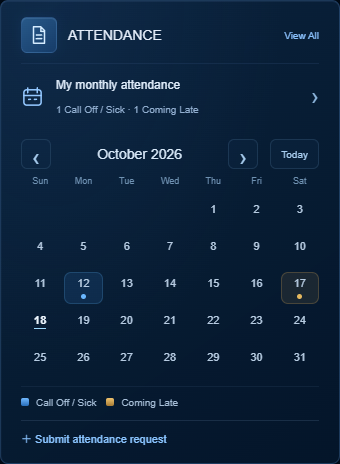
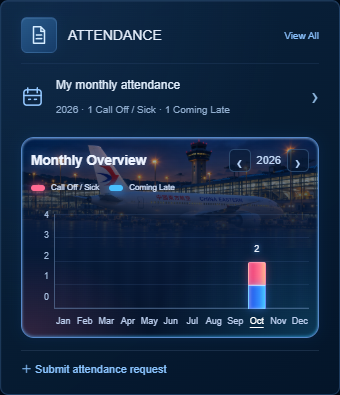
Replace attendance calendars with glowing monthly overview charts

diff --git a/public/public/profile.html b/public/public/profile.html
@@ -1,7 +1,7 @@
 <!doctype html>
 <html lang="en"><head><meta charset="utf-8"><meta name="viewport" content="width=device-width,initial-scale=1"><title>MUFC · Profile</title>
-<link rel="stylesheet" href="/profile.css?v=20261018-privacy-compact"><link rel="stylesheet" href="/portal-cards.css?v=20261018-privacy-compact">
-<script defer src="https://www.gstatic.com/firebasejs/10.12.2/firebase-app-compat.js"></script><script defer src="https://www.gstatic.com/firebasejs/10.12.2/firebase-auth-compat.js"></script><script defer src="/__/firebase/init.js"></script><script defer src="/employee-profile-api.js"></script><script defer src="/flight-account.js?v=20261017-profile-access"></script><script defer src="/employee-phone.js"></script><script defer src="/profile.js?v=20261017-profile-access"></script><link rel="stylesheet" href="/read-sign.css?v=20261018-privacy-compact"><script defer src="/people-api.js?v=20261018"></script><script defer src="/attendance-calendar.js?v=20261018-calendar"></script><script defer src="/profile-modules.js?v=20261018"></script></head>
+<link rel="stylesheet" href="/profile.css?v=20261018-monthly-overview"><link rel="stylesheet" href="/portal-cards.css?v=20261018-monthly-overview">
+<script defer src="https://www.gstatic.com/firebasejs/10.12.2/firebase-app-compat.js"></script><script defer src="https://www.gstatic.com/firebasejs/10.12.2/firebase-auth-compat.js"></script><script defer src="/__/firebase/init.js"></script><script defer src="/employee-profile-api.js"></script><script defer src="/flight-account.js?v=20261017-profile-access"></script><script defer src="/employee-phone.js"></script><script defer src="/profile.js?v=20261017-profile-access"></script><link rel="stylesheet" href="/read-sign.css?v=20261018-monthly-overview"><script defer src="/people-api.js?v=20261018"></script><script defer src="/attendance-overview.js?v=20261018-overview"></script><script defer src="/profile-modules.js?v=20261018-overview"></script></head>
 <body class="profile-page">
 <svg class="profile-symbols" aria-hidden="true" xmlns="http://www.w3.org/2000/svg"><defs>
 <symbol id="icon-home" viewBox="0 0 24 24"><path d="m3 10 9-7 9 7M5 9v12h5v-7h4v7h5V9"/></symbol>
@@ -28,7 +28,7 @@
 <div class="profile-modules profile-dashboard"><div class="profile-personal-column"><section class="profile-panel personal-panel" aria-labelledby="personal-title"><div class="profile-panel-title"><span class="panel-icon"><svg><use href="#icon-person"/></svg></span><div><h2 id="personal-title">Personal Information</h2></div><button id="edit-personal" class="profile-text-button" type="button"><svg><use href="#icon-edit"/></svg>Edit</button></div>
 <dl class="profile-information"><div><dt><svg aria-hidden="true"><use href="#icon-person"/></svg>Full name </dt><dd id="view-full-name"></dd></div><div><dt><svg aria-hidden="true"><use href="#icon-id"/></svg>Employee ID <span>EID</span></dt><dd id="view-employee-id"></dd></div><div><dt><svg aria-hidden="true"><use href="#icon-person"/></svg>Nickname </dt><dd id="view-nickname"></dd></div><div><dt><svg aria-hidden="true"><use href="#icon-phone"/></svg>Phone </dt><dd id="view-phone"></dd></div><div class="information-email"><dt><svg aria-hidden="true"><use href="#icon-mail"/></svg>Email </dt><dd id="view-email"></dd></div></dl>
 
-</section><section class="profile-panel personal-panel request-panel"><div class="profile-panel-title"><span class="panel-icon"><svg><use href="#icon-file"/></svg></span><h2>Request</h2></div><a class="uniform-entry" href="/uniform.html"><span><strong>Uniform</strong><small>Uniform replacement request</small></span><svg class="portal-link-chevron" viewBox="0 0 24 24" aria-hidden="true"><path d="m9 5 7 7-7 7"/></svg></a></section></div><div class="profile-side-panels"><section class="profile-panel personal-panel activity-card"><div class="profile-panel-title"><span class="panel-icon"><svg><use href="#icon-file"/></svg></span><h2>Read &amp; Sign</h2><a class="module-view-all" href="/read-sign.html">View All</a></div><a class="activity-row" href="/read-sign.html"><span class="activity-icon"><svg><use href="#icon-file"/></svg></span><span><strong>Policies, SOPs, acknowledgments</strong><small id="profile-pending-sign">Loading your records…</small></span><span class="activity-chevron">›</span></a><a class="activity-row" href="/read-sign.html?view=history"><span class="activity-icon"><svg><use href="#icon-file"/></svg></span><span><strong>My signing history</strong><small id="profile-signed-count">View completed acknowledgments</small></span><span class="activity-chevron">›</span></a><a class="activity-row" href="/uniform.html"><span class="activity-icon">◷</span><span><strong>My Requests</strong><small>Submit and track requests</small></span><span class="activity-chevron">›</span></a></section><section class="profile-panel personal-panel info-card"><div class="profile-panel-title"><span class="panel-icon"><svg viewBox="0 0 24 24"><circle cx="12" cy="12" r="9"/><path d="M12 11v6m0-10v1"/></svg></span><h2>Info</h2></div><a class="uniform-entry" href="/info.html#insurance"><span><strong>Insurance Waiver</strong><small>Open the insurance waiver form</small></span><svg class="portal-link-chevron" viewBox="0 0 24 24" aria-hidden="true"><path d="m9 5 7 7-7 7"/></svg></a><a class="uniform-entry" href="/info.html#cto"><span><strong>BI-WEEKLY CTO INFORMATION</strong><small>Accrual rates and maximum balances</small></span><svg class="portal-link-chevron" viewBox="0 0 24 24" aria-hidden="true"><path d="m9 5 7 7-7 7"/></svg></a></section></div><div class="profile-activity-panels"><section class="profile-panel personal-panel activity-card attendance-card"><div class="profile-panel-title"><span class="panel-icon"><svg><use href="#icon-file"/></svg></span><h2>ATTENDANCE</h2><a class="module-view-all" href="/attendance.html">View All</a></div><a class="attendance-monthly-entry" href="/attendance.html#monthly-overview"><svg viewBox="0 0 24 24" aria-hidden="true"><rect x="3" y="5" width="18" height="16" rx="3"/><path d="M7 3v5m10-5v5M3 11h18m-13 4h2m4 0h2"/></svg><span><strong>My monthly attendance</strong><small id="profile-monthly-count">View my leave and late records by month</small></span><span>›</span></a><div id="profile-month-mini" aria-label="My attendance calendar"></div><div class="attendance-mini-legend"><span><i class="sick"></i>Call Off / Sick</span><span><i class="late"></i>Coming Late</span></div><a class="attendance-new" href="/request.html">＋ Submit attendance request</a></section></div></div></div></main>
+</section><section class="profile-panel personal-panel request-panel"><div class="profile-panel-title"><span class="panel-icon"><svg><use href="#icon-file"/></svg></span><h2>Request</h2></div><a class="uniform-entry" href="/uniform.html"><span><strong>Uniform</strong><small>Uniform replacement request</small></span><svg class="portal-link-chevron" viewBox="0 0 24 24" aria-hidden="true"><path d="m9 5 7 7-7 7"/></svg></a></section></div><div class="profile-side-panels"><section class="profile-panel personal-panel activity-card"><div class="profile-panel-title"><span class="panel-icon"><svg><use href="#icon-file"/></svg></span><h2>Read &amp; Sign</h2><a class="module-view-all" href="/read-sign.html">View All</a></div><a class="activity-row" href="/read-sign.html"><span class="activity-icon"><svg><use href="#icon-file"/></svg></span><span><strong>Policies, SOPs, acknowledgments</strong><small id="profile-pending-sign">Loading your records…</small></span><span class="activity-chevron">›</span></a><a class="activity-row" href="/read-sign.html?view=history"><span class="activity-icon"><svg><use href="#icon-file"/></svg></span><span><strong>My signing history</strong><small id="profile-signed-count">View completed acknowledgments</small></span><span class="activity-chevron">›</span></a><a class="activity-row" href="/uniform.html"><span class="activity-icon">◷</span><span><strong>My Requests</strong><small>Submit and track requests</small></span><span class="activity-chevron">›</span></a></section><section class="profile-panel personal-panel info-card"><div class="profile-panel-title"><span class="panel-icon"><svg viewBox="0 0 24 24"><circle cx="12" cy="12" r="9"/><path d="M12 11v6m0-10v1"/></svg></span><h2>Info</h2></div><a class="uniform-entry" href="/info.html#insurance"><span><strong>Insurance Waiver</strong><small>Open the insurance waiver form</small></span><svg class="portal-link-chevron" viewBox="0 0 24 24" aria-hidden="true"><path d="m9 5 7 7-7 7"/></svg></a><a class="uniform-entry" href="/info.html#cto"><span><strong>BI-WEEKLY CTO INFORMATION</strong><small>Accrual rates and maximum balances</small></span><svg class="portal-link-chevron" viewBox="0 0 24 24" aria-hidden="true"><path d="m9 5 7 7-7 7"/></svg></a></section></div><div class="profile-activity-panels"><section class="profile-panel personal-panel activity-card attendance-card"><div class="profile-panel-title"><span class="panel-icon"><svg><use href="#icon-file"/></svg></span><h2>ATTENDANCE</h2><a class="module-view-all" href="/attendance.html">View All</a></div><a class="attendance-monthly-entry" href="/attendance.html#monthly-overview"><svg viewBox="0 0 24 24" aria-hidden="true"><rect x="3" y="5" width="18" height="16" rx="3"/><path d="M7 3v5m10-5v5M3 11h18m-13 4h2m4 0h2"/></svg><span><strong>My monthly attendance</strong><small id="profile-monthly-count">View my leave and late records by month</small></span><span>›</span></a><div id="profile-month-mini" aria-label="My monthly attendance chart"></div><a class="attendance-new" href="/request.html">＋ Submit attendance request</a></section></div></div></div></main>
 <dialog id="profile-edit-dialog" class="profile-edit-dialog" aria-labelledby="profile-edit-title"><div class="edit-dialog-heading"><div><p class="profile-eyebrow">EMPLOYEE PROFILE</p><h2 id="profile-edit-title">Edit personal information</h2></div><button id="close-profile-edit" type="button" aria-label="Close profile editor">×</button></div>
 <form id="profile-form"><div class="profile-fields"><label>FULL NAME<input id="full-name" readonly></label><label>EMPLOYEE ID / EID<input id="employee-id" readonly></label><label>NICKNAME<input id="nickname" maxlength="60" autocomplete="nickname"></label><label>PHONE NUMBER<input id="phone" type="tel" maxlength="40" autocomplete="tel"></label><label class="profile-email-field">EMAIL<input id="contact-email" type="email" maxlength="254" autocomplete="email"><small>Contact email</small></label></div><p class="profile-photo-note">Profile photo: PNG, JPEG or WebP · up to 2 MB</p><p id="profile-edit-status" role="status" aria-live="polite"></p><div class="profile-actions"><button id="remove-avatar" type="button">Remove photo</button><button id="reload-profile" type="button">Reload</button><button id="save-profile" class="profile-primary" type="submit">Save changes</button></div></form></dialog>
 </body></html>

diff --git a/public/public/read-sign.css b/public/public/read-sign.css
@@ -59,3 +59,44 @@
 @media(max-width:1000px){.attendance-workspace{grid-template-columns:minmax(0,1fr);max-width:720px}.attendance-workspace .attendance-monthly{max-width:350px}}
 @media(max-width:600px){.attendance-workspace .attendance-record-summary{grid-template-columns:76px minmax(0,1fr) 12px}.attendance-workspace .attendance-row-reason{grid-column:1/3;grid-row:2}.attendance-workspace .attendance-row-arrival{grid-column:1/3;grid-row:3}.attendance-workspace .attendance-row-chevron{grid-column:3;grid-row:1/4}}
 @media print{.rs-detail:not(.can-manage) .rs-print-heading,.rs-detail:not(.can-manage) #rs-register-section{display:none!important}}
+
+/* Monthly Overview: real annual totals, illuminated stacked bars and an airport backdrop. */
+.attendance-overview{position:relative;isolation:isolate;min-width:0;overflow:hidden;border:1px solid #5687c8;border-radius:13px;padding:13px 12px 10px;background:linear-gradient(180deg,#05163340,#071b3bed 42%,#06142a 100%),url('/assets/profile-ce777-night-v10.webp') center 27%/cover;box-shadow:inset 0 1px 2px #c9d7ff77,inset 0 -1px 3px #38b4ff88,0 0 14px #1473d31f}
+.attendance-overview:before{content:'';position:absolute;z-index:-1;inset:0;pointer-events:none;background:radial-gradient(ellipse at 0 100%,#fa6fa32e,transparent 30%),radial-gradient(ellipse at 100% 100%,#22c5ff33,transparent 40%)}
+.overview-heading{display:flex;align-items:center;justify-content:space-between;gap:8px;color:#eef4ff;text-shadow:0 0 8px #a1c7ff66}
+.overview-heading>strong{font-size:15px;letter-spacing:-.3px}
+.overview-year-controls{display:flex;align-items:center;gap:6px;font-size:11px;color:#c1d8f6}
+.attendance-overview .overview-year-controls button{width:22px;height:23px;display:grid;place-items:center;padding:0;border:1px solid #6899cd55;background:#071b36aa;border-radius:5px;color:#bbd9ff;cursor:pointer;font-size:18px}
+.overview-legend{display:flex;flex-wrap:wrap;gap:12px;font-size:9px;color:#d7e6ff;margin:10px 0 25px}
+.overview-legend>span{display:flex;align-items:center;gap:6px}.overview-legend i{width:14px;height:6px;border-radius:3px;box-shadow:0 0 8px currentColor}
+.overview-legend .sick{background:#ff6b92;color:#ff5284}.overview-legend .late{background:#49bfff;color:#2f9fff}
+.overview-plot{position:relative;display:grid;grid-template-columns:18px minmax(0,1fr);gap:5px;font-size:9px;color:#a7bfdf}
+.overview-axis{display:flex;flex-direction:column;justify-content:space-between;height:110px;transform:translateY(-5px);text-align:right}
+.overview-grid{position:absolute;pointer-events:none;inset:0 0 19px 23px;display:flex;flex-direction:column;justify-content:space-between;border-left:1px solid #779bc67a;border-bottom:1px solid #779bc67a}
+.overview-grid i{width:100%;border-top:1px solid #74a5e31c}
+.overview-columns{position:relative;display:grid;grid-template-columns:repeat(12,minmax(0,1fr));gap:5px}
+.attendance-overview .overview-month{min-width:0;display:flex;flex-direction:column;align-items:stretch;gap:6px;padding:0;border:0;border-radius:3px;background:transparent;color:#bacdec;font:inherit;font-size:9px;cursor:pointer;box-shadow:none}
+.overview-track{display:flex;align-items:flex-end;justify-content:center;height:110px;min-width:0;background:linear-gradient(90deg,transparent,#739fff05,transparent)}
+.overview-stack{position:relative;display:flex;flex-direction:column;width:100%;max-width:24px;min-width:0}
+.overview-bar{display:block;min-height:0;border:1px solid #b8d9ff70;border-top-color:#f1f6ffb3;box-sizing:border-box;box-shadow:0 0 9px #458cff77,inset 2px 0 3px #e0edff55}
+.overview-bar.sick{background:linear-gradient(90deg,#e93675,#ff728f 65%,#ffb28d);box-shadow:0 0 9px #fa608366,inset 2px 0 3px #ffd2d655;border-color:#ffacc2aa}
+.overview-bar.late{background:linear-gradient(90deg,#244fe6,#318dfd 65%,#49c8ff)}
+.overview-bar[hidden]{display:none}.overview-bar:first-child{border-radius:2px 2px 0 0}
+.overview-bar-total{position:absolute;bottom:calc(100% + 5px);left:0;right:0;text-align:center;font-size:9px;color:#eef5ff;text-shadow:0 0 5px #65aaff}
+.overview-month-label{text-align:center;line-height:13px;white-space:nowrap}
+.overview-month[aria-pressed=true] .overview-month-label{color:#fff;text-decoration:underline;text-underline-offset:3px}
+.overview-month:hover .overview-track{background:#508ad01a}.attendance-overview button:focus-visible{outline:2px solid #91d7ff;outline-offset:2px}
+.overview-empty{margin:10px 0 0;font-size:10px;color:#b2c8e1;line-height:1.6}.overview-empty[hidden]{display:none}
+.attendance-workspace{grid-template-columns:430px minmax(0,550px);max-width:998px}
+.attendance-workspace .attendance-monthly{padding:16px}
+.attendance-workspace .attendance-overview{margin-top:14px}
+.attendance-workspace .attendance-record-summary{display:flex;align-items:center;gap:10px;font-size:11px}
+.attendance-workspace .attendance-row-date{flex:none;width:74px}
+.attendance-workspace .attendance-row-type{flex:none;width:96px}
+.attendance-workspace .attendance-row-reason{flex:0 1 auto;max-width:180px;min-width:0;overflow:hidden;text-overflow:ellipsis;white-space:nowrap}
+.attendance-workspace .attendance-row-arrival{flex:none;font-size:10px}
+.attendance-workspace .attendance-row-chevron{flex:none;margin-left:2px}
+@media(max-width:1250px){.attendance-workspace{grid-template-columns:minmax(0,1fr);max-width:550px}.attendance-workspace .attendance-monthly{max-width:430px}}
+@media(max-width:600px){.attendance-workspace .attendance-record-summary{display:grid;grid-template-columns:74px minmax(0,1fr) 12px;gap:6px}.attendance-workspace .attendance-row-type{width:auto}.attendance-workspace .attendance-row-reason{max-width:none;grid-column:1/3;grid-row:2}.attendance-workspace .attendance-row-arrival{grid-column:1/3;grid-row:3}.attendance-workspace .attendance-row-chevron{grid-column:3;grid-row:1/4}}
+@media(max-width:600px){.attendance-overview .overview-heading>strong{font-size:13px}.overview-year-controls{gap:4px}.attendance-overview .overview-year-controls button{width:20px}.overview-columns{gap:2px}.attendance-overview .overview-month{font-size:8px}}
+.attendance-overview{background:linear-gradient(180deg,#05163330 0%,#071b3ba6 27%,#071b3bf5 48%,#06142a 100%),url('/assets/profile-ce777-night-v10.webp') right top/100% auto no-repeat,#06142a}

diff --git a/public/public/attendance.html b/public/public/attendance.html
@@ -1,7 +1,7 @@
 <!doctype html>
 <html lang="en"><head><meta charset="utf-8"><meta name="viewport" content="width=device-width,initial-scale=1"><title>HMMU · Attendance</title>
-<link rel="stylesheet" href="/profile.css?v=20261018-privacy-compact"><link rel="stylesheet" href="/portal-cards.css?v=20261018-privacy-compact">
-<script defer src="https://www.gstatic.com/firebasejs/10.12.2/firebase-app-compat.js"></script><script defer src="https://www.gstatic.com/firebasejs/10.12.2/firebase-auth-compat.js"></script><script defer src="/__/firebase/init.js"></script><script defer src="/employee-profile-api.js"></script><script defer src="/flight-account.js?v=20261017-profile-access"></script><script defer src="/employee-phone.js"></script><link rel="stylesheet" href="/read-sign.css?v=20261018-privacy-compact"><script defer src="/people-api.js?v=20261018"></script><script defer src="/attendance-calendar.js?v=20261018-calendar"></script><script defer src="/attendance-history.js?v=20261018-monthly"></script></head>
+<link rel="stylesheet" href="/profile.css?v=20261018-monthly-overview"><link rel="stylesheet" href="/portal-cards.css?v=20261018-monthly-overview">
+<script defer src="https://www.gstatic.com/firebasejs/10.12.2/firebase-app-compat.js"></script><script defer src="https://www.gstatic.com/firebasejs/10.12.2/firebase-auth-compat.js"></script><script defer src="/__/firebase/init.js"></script><script defer src="/employee-profile-api.js"></script><script defer src="/flight-account.js?v=20261017-profile-access"></script><script defer src="/employee-phone.js"></script><link rel="stylesheet" href="/read-sign.css?v=20261018-monthly-overview"><script defer src="/people-api.js?v=20261018"></script><script defer src="/attendance-overview.js?v=20261018-overview"></script><script defer src="/attendance-history.js?v=20261018-overview"></script></head>
 <body class="profile-page">
 <svg class="profile-symbols" aria-hidden="true" xmlns="http://www.w3.org/2000/svg"><defs>
 <symbol id="icon-home" viewBox="0 0 24 24"><path d="m3 10 9-7 9 7M5 9v12h5v-7h4v7h5V9"/></symbol>
@@ -20,4 +20,4 @@
 <aside class="profile-sidebar" aria-label="Workspace navigation"><div class="sidebar-caption">WORKSPACE</div><nav>
 <a href="/admin.html" id="profile-admin-nav" hidden><svg><use href="#icon-people"/></svg>Admin</a><a href="/profile.html"><svg><use href="#icon-person"/></svg>Profile</a><a href="/info.html"><svg viewBox="0 0 24 24" aria-hidden="true"><circle cx="12" cy="12" r="9"/><path d="M12 11v6m0-10v1"/></svg>Info</a><a href="/uniform.html"><svg><use href="#icon-file"/></svg>Request</a><a href="/read-sign.html"><svg><use href="#icon-file"/></svg>Read &amp; Sign</a><a href="/attendance.html" class="is-active" aria-current="page"><svg><use href="#icon-file"/></svg>Attendance</a>
 </nav><div class="sidebar-airport"><p>MUFC</p><small>People. Operations. Together.</small><span>LAX · LOS ANGELES</span></div></aside>
-<main class="profile-shell rs-shell"><p class="profile-eyebrow">MY RECORDS</p><div class="rs-heading"><div><h1>Attendance</h1><p class="rs-subtitle">Your Call Off / Sick and Coming Late submissions.</p></div><a href="/request.html" class="attendance-new attendance-request-button"><svg viewBox="0 0 24 24" aria-hidden="true"><path d="M12 5v14M5 12h14"/></svg><span>New request</span></a></div><p id="attendance-status" role="status" aria-live="polite">Loading your records…</p><div class="attendance-workspace"><section class="profile-panel personal-panel attendance-monthly" id="monthly-overview"><div class="attendance-monthly-heading"><div><h2><svg viewBox="0 0 24 24" aria-hidden="true"><rect x="3" y="5" width="18" height="16" rx="3"/><path d="M7 3v5m10-5v5M3 11h18m-13 4h2m4 0h2"/></svg>My monthly attendance</h2><p id="attendance-year-total" class="rs-muted"></p></div></div><div class="attendance-chart-legend"><span><i class="sick"></i>Call Off / Sick</span><span><i class="late"></i>Coming Late</span><small>Select a date to view your records.</small></div><div id="attendance-month-chart" aria-label="My attendance calendar"></div></section><section class="profile-panel personal-panel attendance-record-panel"><div class="rs-attendance-summary" id="attendance-summary"></div><div class="rs-toolbar attendance-filters"><label>Type <select id="attendance-filter"><option value="all">All records</option><option value="sick">Call Off / Sick</option><option value="late">Coming Late</option></select></label><label>Month <input id="attendance-month" type="month"></label><button id="attendance-clear">All months</button><button id="attendance-refresh">Refresh</button></div><div id="attendance-records"></div></section></div></main></body></html>
+<main class="profile-shell rs-shell"><p class="profile-eyebrow">MY RECORDS</p><div class="rs-heading"><div><h1>Attendance</h1><p class="rs-subtitle">Your Call Off / Sick and Coming Late submissions.</p></div><a href="/request.html" class="attendance-new attendance-request-button"><svg viewBox="0 0 24 24" aria-hidden="true"><path d="M12 5v14M5 12h14"/></svg><span>New request</span></a></div><p id="attendance-status" role="status" aria-live="polite">Loading your records…</p><div class="attendance-workspace"><section class="profile-panel personal-panel attendance-monthly" id="monthly-overview"><div class="attendance-monthly-heading"><div><h2><svg viewBox="0 0 24 24" aria-hidden="true"><rect x="3" y="5" width="18" height="16" rx="3"/><path d="M7 3v5m10-5v5M3 11h18m-13 4h2m4 0h2"/></svg>My monthly attendance</h2><p id="attendance-year-total" class="rs-muted"></p></div></div><div id="attendance-month-chart" aria-label="My monthly attendance chart"></div></section><section class="profile-panel personal-panel attendance-record-panel"><div class="rs-attendance-summary" id="attendance-summary"></div><div class="rs-toolbar attendance-filters"><label>Type <select id="attendance-filter"><option value="all">All records</option><option value="sick">Call Off / Sick</option><option value="late">Coming Late</option></select></label><label>Month <input id="attendance-month" type="month"></label><button id="attendance-clear">All months</button><button id="attendance-refresh">Refresh</button></div><div id="attendance-records"></div></section></div></main></body></html>

diff --git a/public/public/attendance-overview.js b/public/public/attendance-overview.js
@@ -1,0 +1,35 @@
+(()=>{
+ const node=(tag,text,cls)=>{const n=document.createElement(tag);if(text!=null)n.textContent=text;if(cls)n.className=cls;return n;};
+ const today=()=>new Intl.DateTimeFormat('en-CA',{timeZone:'America/Los_Angeles',year:'numeric',month:'2-digit',day:'2-digit'}).format(new Date());
+ const validMonth=value=>/^\d{4}-(0[1-9]|1[0-2])$/.test(value||'')&&Number(value.slice(0,4))>=1900;
+ const validDate=value=>/^\d{4}-\d{2}-\d{2}$/.test(value||'')&&validMonth(value.slice(0,7))&&Number.isFinite(Date.parse(value+'T12:00:00Z'))&&new Date(value+'T12:00:00Z').toISOString().slice(0,10)===value;
+ const months=['Jan','Feb','Mar','Apr','May','Jun','Jul','Aug','Sep','Oct','Nov','Dec'];
+ function create(host,{records=[],month=today().slice(0,7),onSelect=()=>{},onYearChange=()=>{}}={}){
+  let rows=records,year=Number((validMonth(month)?month:today()).slice(0,4)),selected=validMonth(month)?month:'';
+  host.classList.add('attendance-overview');
+  function render(){
+   const focus=host.contains(document.activeElement)?document.activeElement:null,key=focus?.dataset.month||focus?.getAttribute('aria-label');
+   const totals=months.map((_,i)=>{const month=year+'-'+String(i+1).padStart(2,'0'),items=rows.filter(r=>validDate(r.date)&&r.date.startsWith(month));return {month,sick:items.filter(r=>r.type==='sick').length,late:items.filter(r=>r.type==='late').length};});
+   const step=Math.max(1,Math.ceil(Math.max(...totals.map(r=>r.sick+r.late))/4)),max=step*4;
+   const header=node('div',null,'overview-heading'),title=node('strong','Monthly Overview'),controls=node('div',null,'overview-year-controls');
+   const back=node('button','‹'),label=node('span',String(year)),next=node('button','›');back.type=next.type='button';back.setAttribute('aria-label','Previous year');next.setAttribute('aria-label','Next year');back.disabled=year===1900;next.disabled=year===9999;
+   const move=offset=>{year+=offset;selected='';render();onYearChange(year);};back.onclick=()=>move(-1);next.onclick=()=>move(1);controls.append(back,label,next);header.append(title,controls);
+   const legend=node('div',null,'overview-legend');for(const [cls,text] of [['sick','Call Off / Sick'],['late','Coming Late']]){const item=node('span',text);item.prepend(node('i',null,cls));legend.append(item);}
+   const plot=node('div',null,'overview-plot'),axis=node('div',null,'overview-axis'),grid=node('div',null,'overview-grid'),columns=node('div',null,'overview-columns');
+   for(let i=4;i>=0;i--){axis.append(node('span',String(step*i)));grid.append(node('i'));}plot.append(axis,grid,columns);
+   for(const [i,r] of totals.entries()){
+    const button=node('button',null,'overview-month'),track=node('span',null,'overview-track'),stack=node('span',null,'overview-stack');button.type='button';button.dataset.month=r.month;button.setAttribute('aria-pressed',String(selected===r.month));
+    const description=`${months[i]} ${year}: ${r.sick} Call Off / Sick, ${r.late} Coming Late`;button.setAttribute('aria-label',description);button.title=description;
+    stack.style.height=((r.sick+r.late)/max*100)+'%';
+    for(const [type,count] of [['sick',r.sick],['late',r.late]]){const bar=node('span',null,'overview-bar '+type);bar.dataset.count=String(count);bar.style.flex=String(count);if(!count)bar.hidden=true;stack.append(bar);}
+    if(r.sick+r.late){const count=node('span',String(r.sick+r.late),'overview-bar-total');stack.append(count);}track.append(stack);button.append(track,node('span',months[i],'overview-month-label'));
+    button.onclick=()=>{selected=r.month;render();onSelect(r.month);};columns.append(button);
+   }
+   const empty=node('p','No attendance records in '+year+'.','overview-empty');empty.hidden=totals.some(r=>r.sick+r.late);
+   host.replaceChildren(header,legend,plot,empty);
+   if(key)[...host.querySelectorAll('button')].find(b=>b.dataset.month===key||b.getAttribute('aria-label')===key)?.focus({preventScroll:true});
+  }
+  render();return {setRecords(next){rows=next;render();},setMonth(next){selected=validMonth(next)?next:'';if(selected)year=Number(selected.slice(0,4));render();},getYear:()=>year};
+ }
+ window.attendanceOverview={create,today,validDate,validMonth};
+})();

diff --git a/public/public/attendance-history.js b/public/public/attendance-history.js
@@ -1,16 +1,16 @@
 (()=>{
- const $=id=>document.getElementById(id),status=$('attendance-status');let records=[],selectedDay='',calendar;
+ const $=id=>document.getElementById(id),status=$('attendance-status');let records=[],selectedDay='',overview;
  const node=(tag,text,cls)=>{const n=document.createElement(tag);n.textContent=text;if(cls)n.className=cls;return n;};
- function renderCalendar(){
-  if(!calendar)calendar=attendanceCalendar.create($('attendance-month-chart'),{records,month:$('attendance-month').value||attendanceCalendar.today().slice(0,7),onSelect:date=>{selectedDay=date;$('attendance-month').value=date.slice(0,7);$('attendance-filter').value='all';render();},onMonthChange:month=>{selectedDay='';$('attendance-month').value=month;render();}});
-  calendar.setRecords(records);if($('attendance-month').value)calendar.setMonth($('attendance-month').value);calendar.setSelectedDate(selectedDay);
-  const month=calendar.getMonth(),rows=records.filter(r=>String(r.date).startsWith(month));$('attendance-year-total').textContent=`${rows.filter(r=>r.type==='sick').length} Call Off / Sick · ${rows.filter(r=>r.type==='late').length} Coming Late`;
+ function renderOverview(){
+  if(!overview)overview=attendanceOverview.create($('attendance-month-chart'),{records,month:$('attendance-month').value||attendanceOverview.today().slice(0,7),onSelect:month=>{selectedDay='';$('attendance-month').value=month;render();},onYearChange:year=>{selectedDay='';$('attendance-month').value=year+'-01';render();}});
+  overview.setRecords(records);overview.setMonth($('attendance-month').value);
+  const year=overview.getYear(),rows=records.filter(r=>String(r.date).startsWith(year+'-'));$('attendance-year-total').textContent=`${year} · ${rows.filter(r=>r.type==='sick').length} Call Off / Sick · ${rows.filter(r=>r.type==='late').length} Coming Late`;
  }
  function render(){
   const shown=records.filter(r=>(!selectedDay||r.date===selectedDay)&&($('attendance-filter').value==='all'||r.type===$('attendance-filter').value)&&(!$('attendance-month').value||String(r.date).startsWith($('attendance-month').value)));
   $('attendance-summary').replaceChildren(...[`${shown.length} records`,`${shown.filter(r=>r.type==='sick').length} Call Off / Sick`,`${shown.filter(r=>r.type==='late').length} Coming Late`].map(v=>node('strong',v)));
   if(selectedDay){const clear=node('button',selectedDay+' ×','attendance-clear-day');clear.type='button';clear.setAttribute('aria-label','Clear selected day');clear.onclick=()=>{selectedDay='';render();};$('attendance-summary').prepend(clear);}
-  renderCalendar();
+  renderOverview();
   $('attendance-records').replaceChildren();
   if(!shown.length){$('attendance-records').append(node('p','No attendance records for this selection.','rs-empty'));return;}
   for(const r of shown){
@@ -25,6 +25,6 @@
  async function load(){status.textContent='Loading your records…';try{records=(await peopleApi('/attendance-api/history')).records;render();status.textContent='';}catch(e){status.textContent=e.message;}}
  $('attendance-filter').onchange=render;$('attendance-month').onchange=()=>{selectedDay='';render();};$('attendance-clear').onclick=()=>{$('attendance-month').value='';selectedDay='';render();};$('attendance-refresh').onclick=load;
  const initial=new URLSearchParams(location.search),date=initial.get('date'),month=initial.get('month');
- if(attendanceCalendar.validDate(date)){selectedDay=date;$('attendance-month').value=date.slice(0,7);}else $('attendance-month').value=attendanceCalendar.validMonth(month)?month:attendanceCalendar.today().slice(0,7);
+ if(attendanceOverview.validDate(date)){selectedDay=date;$('attendance-month').value=date.slice(0,7);}else $('attendance-month').value=attendanceOverview.validMonth(month)?month:attendanceOverview.today().slice(0,7);
  firebase.auth().onAuthStateChanged(user=>user?load():peopleSignIn());
 })();

diff --git a/public/public/profile-modules.js b/public/public/profile-modules.js
@@ -5,10 +5,10 @@
   await Promise.allSettled([
    peopleApi('/read-sign-api').then(data=>{$('profile-pending-sign').textContent=`${data.memos.filter(m=>['pending','overdue'].includes(m.myStatus)).length} pending items`;$('profile-signed-count').textContent=`${data.memos.filter(m=>m.myStatus==='signed').length} signed acknowledgments`;}).catch(()=>{$('profile-pending-sign').textContent='Open Read & Sign to load records';}),
    peopleApi('/attendance-api/history').then(data=>{
-    const today=attendanceCalendar.today();
-    const calendar=attendanceCalendar.create($('profile-month-mini'),{records:data.records,onSelect:date=>location.assign('/attendance.html?date='+date+'#attendance-records'),onMonthChange:updateCount});
-    function updateCount(month){const rows=data.records.filter(r=>String(r.date).startsWith(month));$('profile-monthly-count').textContent=`${rows.filter(r=>r.type==='sick').length} Call Off / Sick · ${rows.filter(r=>r.type==='late').length} Coming Late`;}
-    updateCount(today.slice(0,7));
+    const today=attendanceOverview.today();
+    attendanceOverview.create($('profile-month-mini'),{records:data.records,month:today.slice(0,7),onSelect:month=>location.assign('/attendance.html?month='+month+'#attendance-records'),onYearChange:updateCount});
+    function updateCount(year){const rows=data.records.filter(r=>String(r.date).startsWith(year+'-'));$('profile-monthly-count').textContent=`${year} · ${rows.filter(r=>r.type==='sick').length} Call Off / Sick · ${rows.filter(r=>r.type==='late').length} Coming Late`;}
+    updateCount(Number(today.slice(0,4)));
 
    }).catch(()=>{$('profile-monthly-count').textContent='Unable to load attendance. Open View All to retry.';})
   ]);loading=false;

diff --git a/public/public/portal-cards.css b/public/public/portal-cards.css
@@ -59,3 +59,11 @@
 .profile-dashboard .attendance-card .profile-panel-title{padding-bottom:10px}
 .profile-dashboard .attendance-card .attendance-mini-legend{padding-top:8px;margin:8px 0}
 .profile-dashboard .attendance-card .attendance-new{padding-top:10px;margin-top:10px}
+
+.profile-dashboard .attendance-overview{margin-top:8px;padding:11px 9px 9px}
+.profile-dashboard .overview-heading>strong{font-size:14px}
+.profile-dashboard .overview-columns{gap:3px}
+.profile-dashboard .overview-month{font-size:8px}
+.profile-dashboard .overview-axis,.profile-dashboard .overview-track{height:95px}
+.profile-dashboard .overview-legend{margin-bottom:20px;font-size:8px;gap:10px}
+.profile-dashboard .attendance-card .attendance-new{margin-top:12px}

diff --git a/docs/read-sign-attendance.md b/docs/read-sign-attendance.md
@@ -24,7 +24,7 @@ The Request page first asks for a request type; Request Uniform expands the form
 
 ## Attendance records
 
-The authenticated `/attendance-api/history` endpoint reads the existing attendance worksheet (spreadsheet and tab constants in `attendanceRequests.js`). It selects only rows whose Employee ID equals the linked employee's internal record ID; query parameters cannot select another person. History reads do not initialize or alter worksheet headers. Older rows without this identity field cannot safely be assigned by name and are omitted. On desktop the Attendance page places its compact calendar to the left of the records panel; below 1000px these stack vertically. Profile and Attendance use a shared monthly calendar with previous/next month controls and Today. Blue marks indicate Call Off / Sick; gold marks indicate Coming Late; both marks appear when both types occur on a day. Selecting a Profile date opens Attendance with that exact day selected. Attendance supports day, type and month filtering and compact expandable records. Full reason, expected arrival, note and formatted submission time are available on expansion. Reference remains stored for auditing but is hidden in this UI. Calendar dates use UTC arithmetic to avoid DST shifts; today's highlight uses America/Los_Angeles. Counts represent submissions, not scheduled workdays or leave hours. These submissions have no approval status.
+The authenticated `/attendance-api/history` endpoint reads the existing attendance worksheet (spreadsheet and tab constants in `attendanceRequests.js`). It selects only rows whose Employee ID equals the linked employee's internal record ID; query parameters cannot select another person. History reads do not initialize or alter worksheet headers. Older rows without this identity field cannot safely be assigned by name and are omitted. On desktop the Attendance page places its annual Monthly Overview chart to the left of compact records; narrower screens stack them. Profile and Attendance share a stacked monthly chart with year navigation. Pink indicates Call Off / Sick and blue indicates Coming Late. Selecting a Profile month opens Attendance with that month selected. Existing date deep links plus day, type and month filtering remain supported. Full reason, expected arrival, note and formatted submission time are available on expansion. Reference remains stored for auditing but is hidden in this UI. Counts represent submissions, not scheduled workdays or leave hours. These submissions have no approval status.
 
 Email reminders include both a plain-text fallback and a styled HTML version with the HMMU header, subject, publisher, deadline, message, attachment names and an Open Read & Sign button. Both versions use the same authenticated destination. Published text is escaped before rendering in HTML. Preview images are generated from the actual outgoing HTML template without sending mail.
 
@@ -43,4 +43,9 @@ The pre-existing Uniform test fixture used `@mu.com` accounts that the current p
 
 Only the current stored Supervisor or Manager role can view the full acknowledgement register, aggregate signing counts, signatures and delivery statuses, print/save the register, or download attachments. Other positions receive only their own acknowledgement state and date, alongside the memo content and attachment filenames. Roster and aggregate counts are omitted from list, detail and sign responses; direct attachment requests return 403. Changing a stored role takes effect on the next request. Employees can still sign and review their personal history.
 
-Profile attendance uses a compact calendar card without stretching to match neighboring columns. Attendance details place a bounded calendar next to a readable-width record panel with compact expandable rows; smaller screens stack these panels. Info resource cards and the CTO table have a bounded width, with existing CTO data preserved.
+Profile attendance uses a compact chart card without stretching to match neighboring columns. Attendance details place a bounded monthly chart next to a readable-width record panel with compact expandable rows; smaller screens stack these panels. Info resource cards and the CTO table have a bounded width, with existing CTO data preserved.
+
+
+## Monthly Overview chart
+
+The Profile Attendance card and Attendance details now use a shared annual stacked bar chart in place of the calendar. Pink represents Call Off / Sick; blue represents Coming Late. Each bar aggregates the authenticated employee's actual valid records for that month and displays its total. Zero months have no fabricated bar, and the vertical scale adjusts to the largest monthly total. Month buttons have accessible count labels and filter/navigate to the corresponding month; year controls change the displayed year. Existing date deep links, type/month filters and expandable record details remain supported. The night-airport background reuses the existing aircraft asset, while axes, labels and bars remain live DOM elements. The record panel is capped at 550px and places reason/arrival beside the date/type rather than pushing arrival to the far edge.
